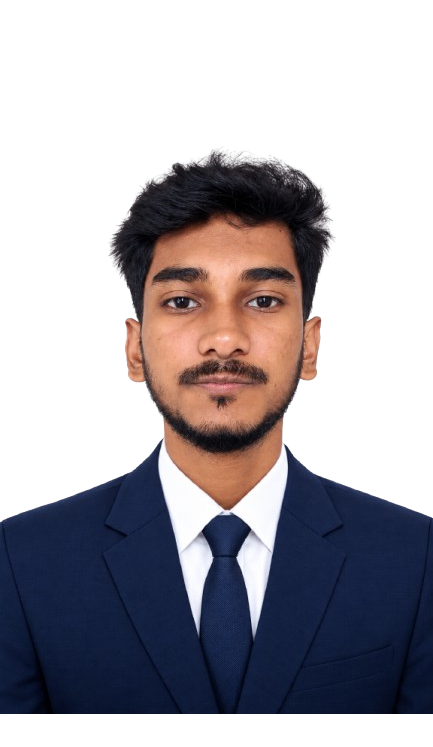
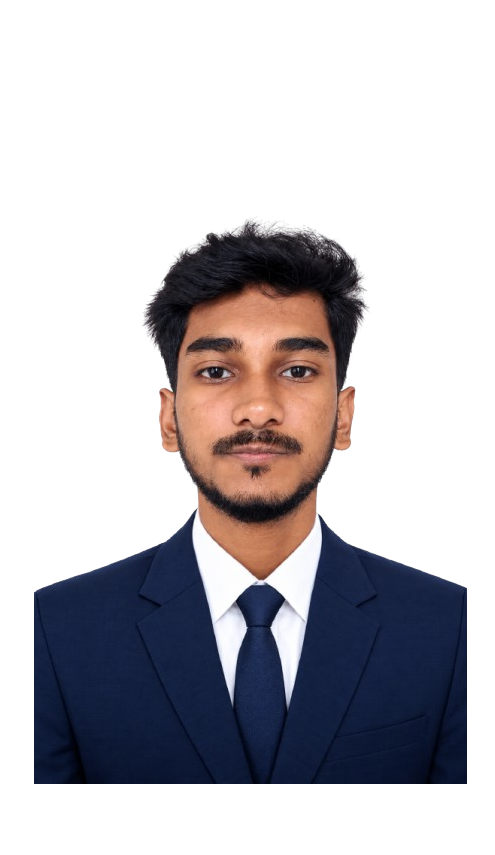
added naimul picture

Changed region(s): [[0.0, 0.1847, 1.0, 0.9545], [0.2702, 0.7082, 0.3002, 0.739]]

diff --git a/about.html b/about.html
@@ -629,7 +629,7 @@
                 <div class="relative overflow-hidden">
 
                     <img
-                        src="assets/images/card/naim.png"
+                        src="assets/images/card/naim (2).png"
                         class="w-full h-80 object-cover group-hover:scale-105 duration-700">
 
                     <span
@@ -648,7 +648,7 @@
                     <h3
                         class="text-2xl font-bold text-gray-900">
 
-                        Naim
+                        MD Naimul Hasan 
 
                     </h3>
 
@@ -685,7 +685,7 @@
 
                             <i class="fa-solid fa-id-card text-blue-500"></i>
 
-                            2262091XXX
+                            2262091064
 
                         </div>
 
